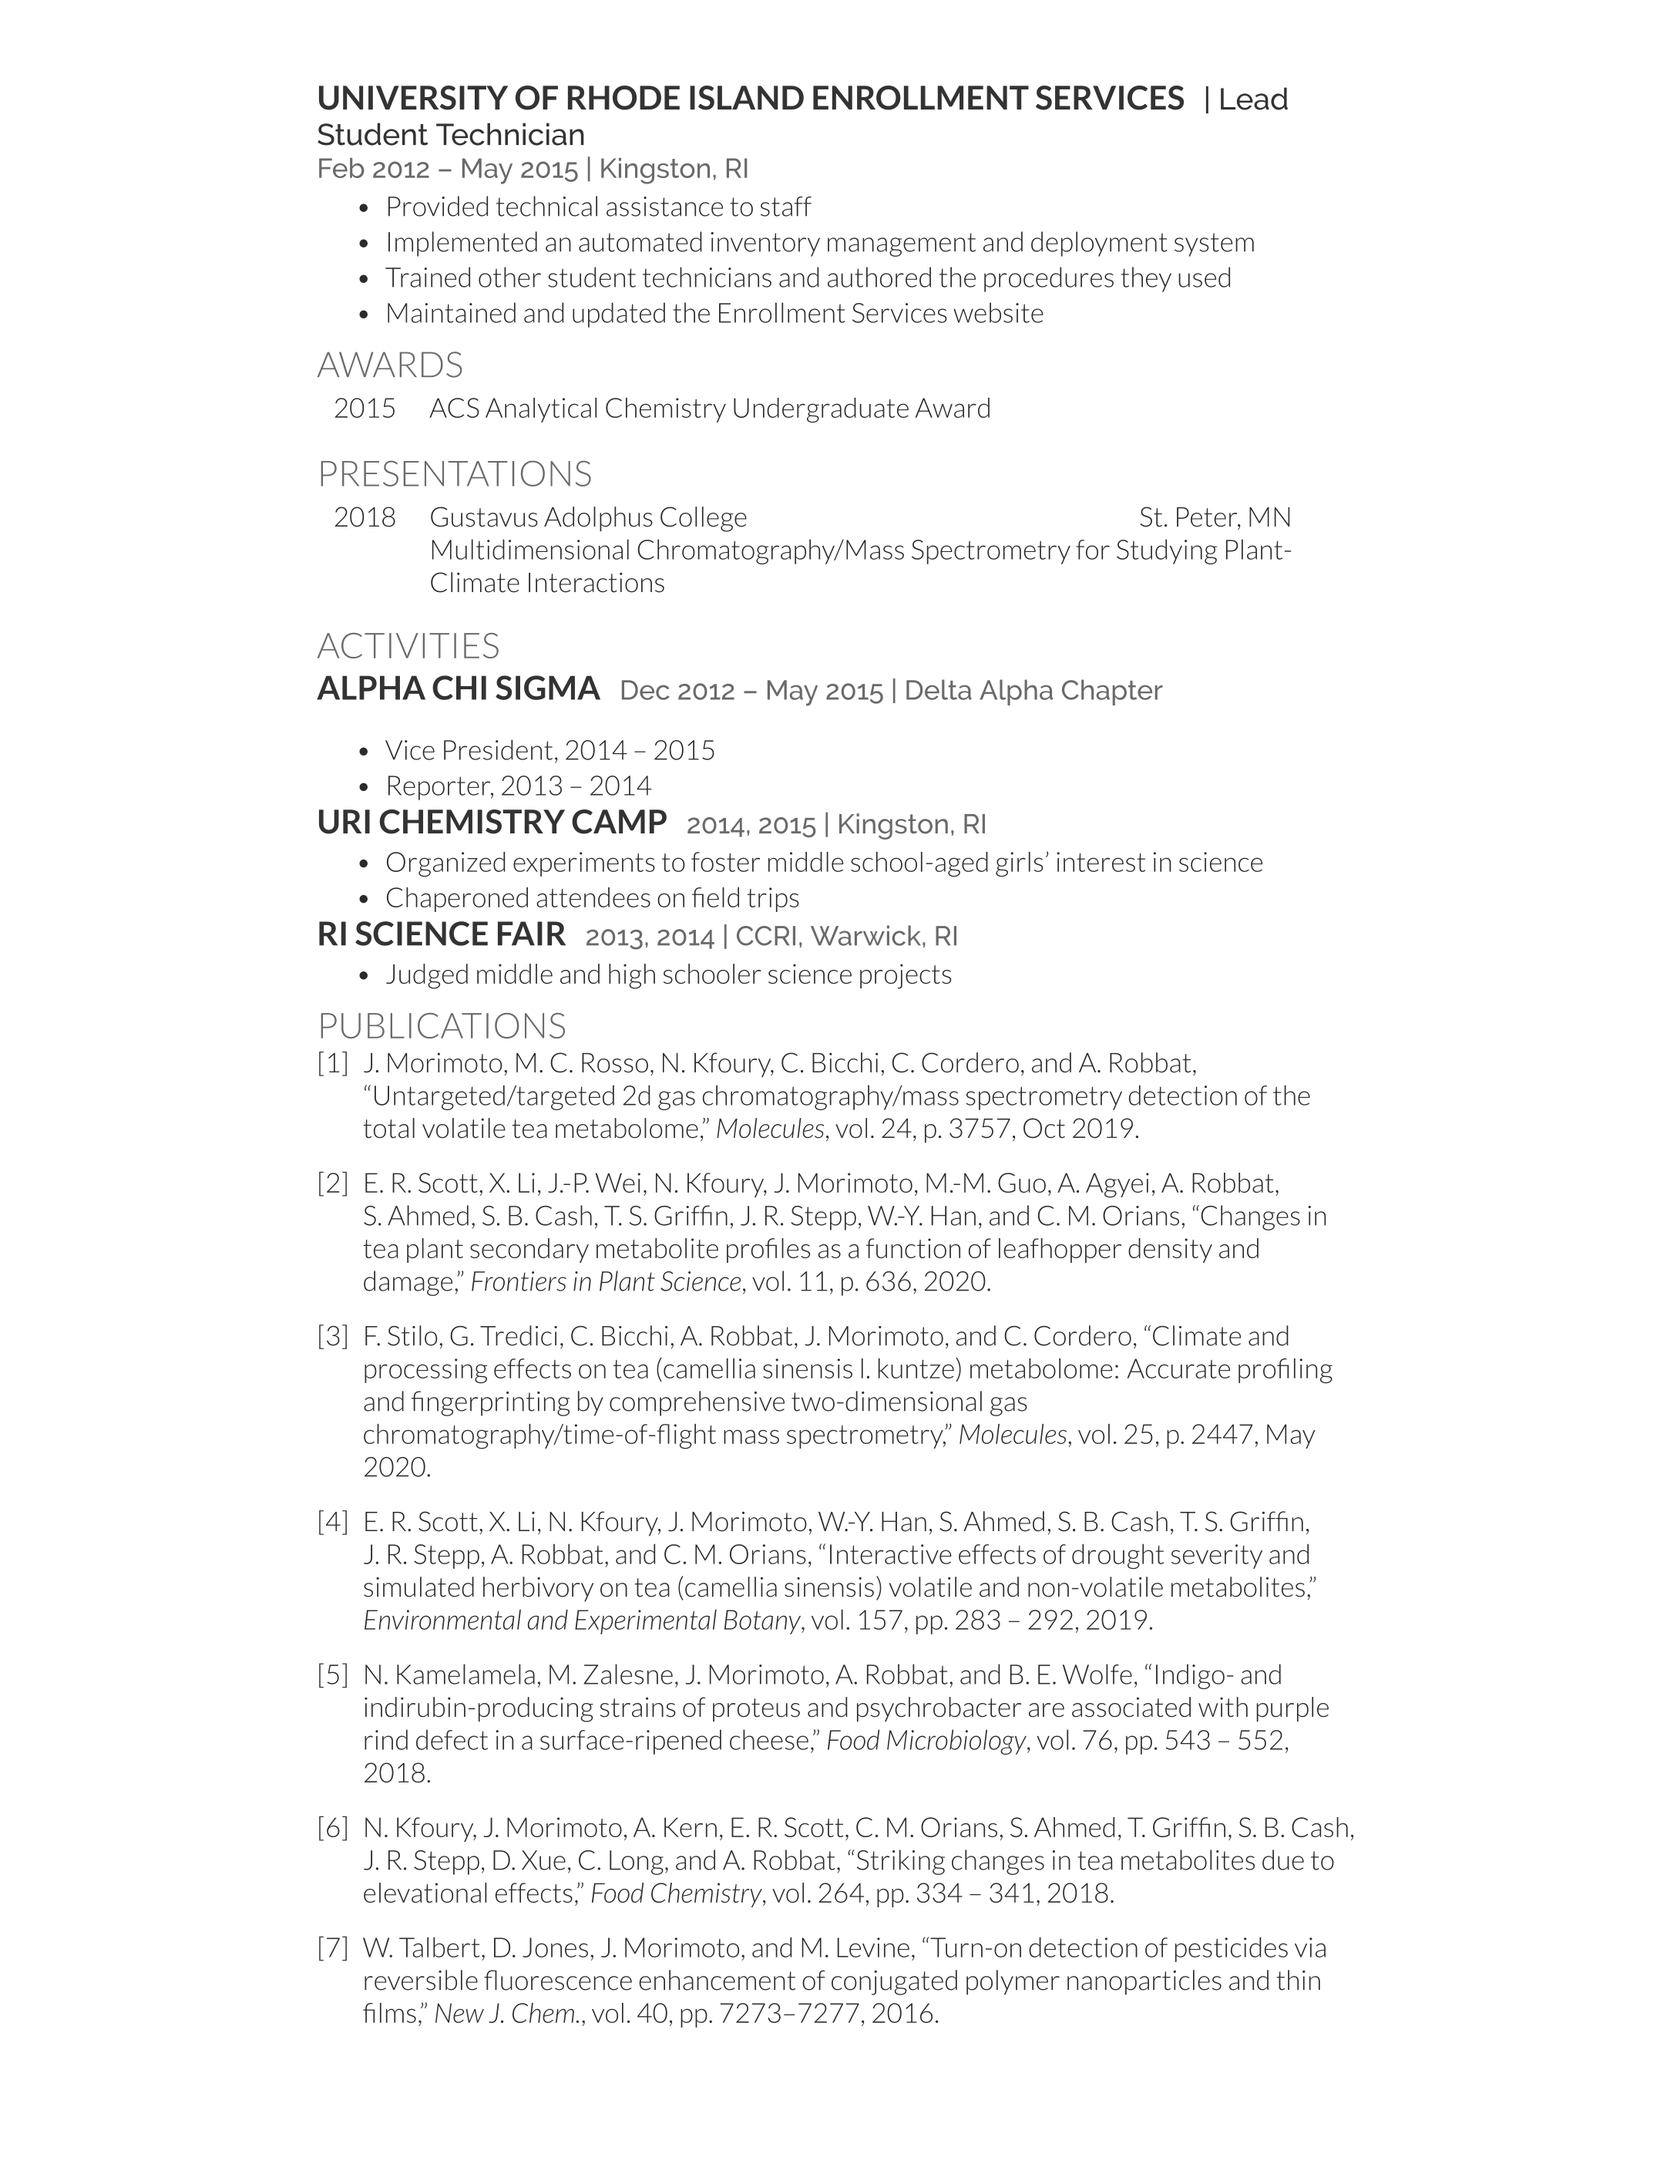
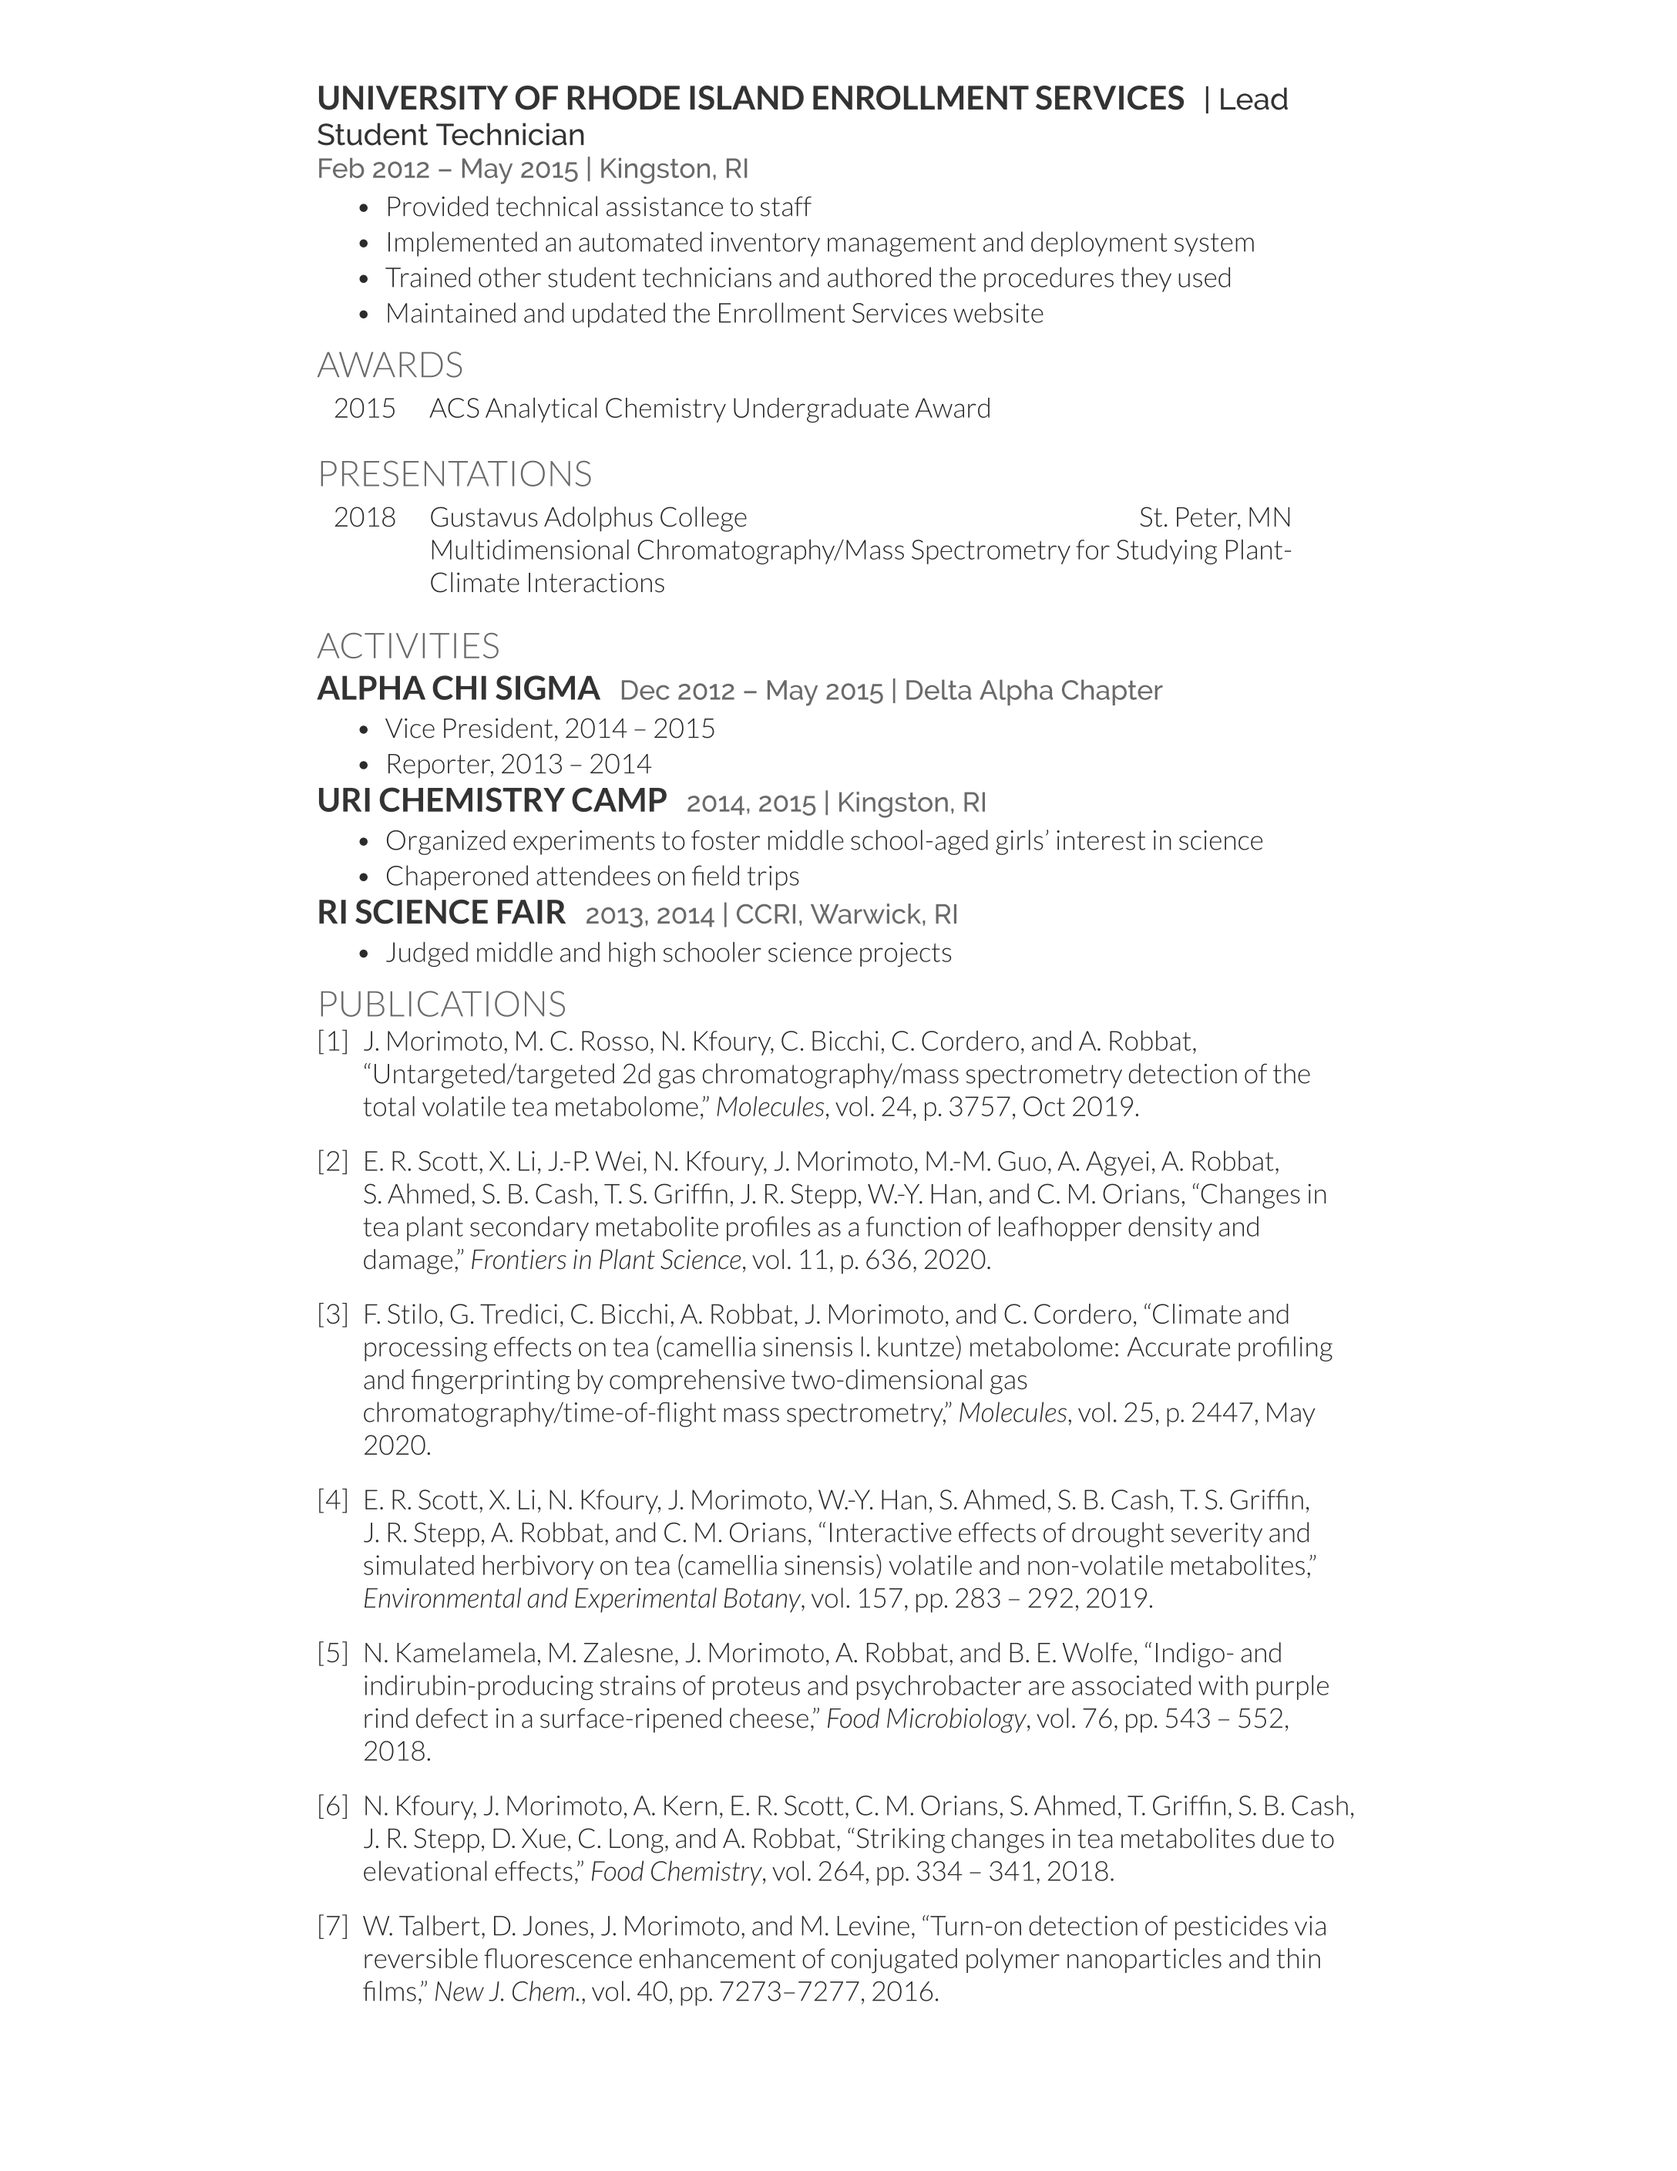
remove vspace

Changed region(s): [[0.1875, 0.3438, 0.7812, 0.9375]]

diff --git a/cv.tex b/cv.tex
@@ -230,7 +230,6 @@ patterns in blood-brain-barrier permeability
 \section{Activities}
 \runsubsection{Alpha Chi Sigma}
 \location{Dec 2012 \textendash{} May 2015 | Delta Alpha Chapter}
-\vspace{\topsep}
 \begin{tightemize}
 \item Vice President, 2014 \textendash{} 2015
 \item Reporter, 2013 \textendash{} 2014
